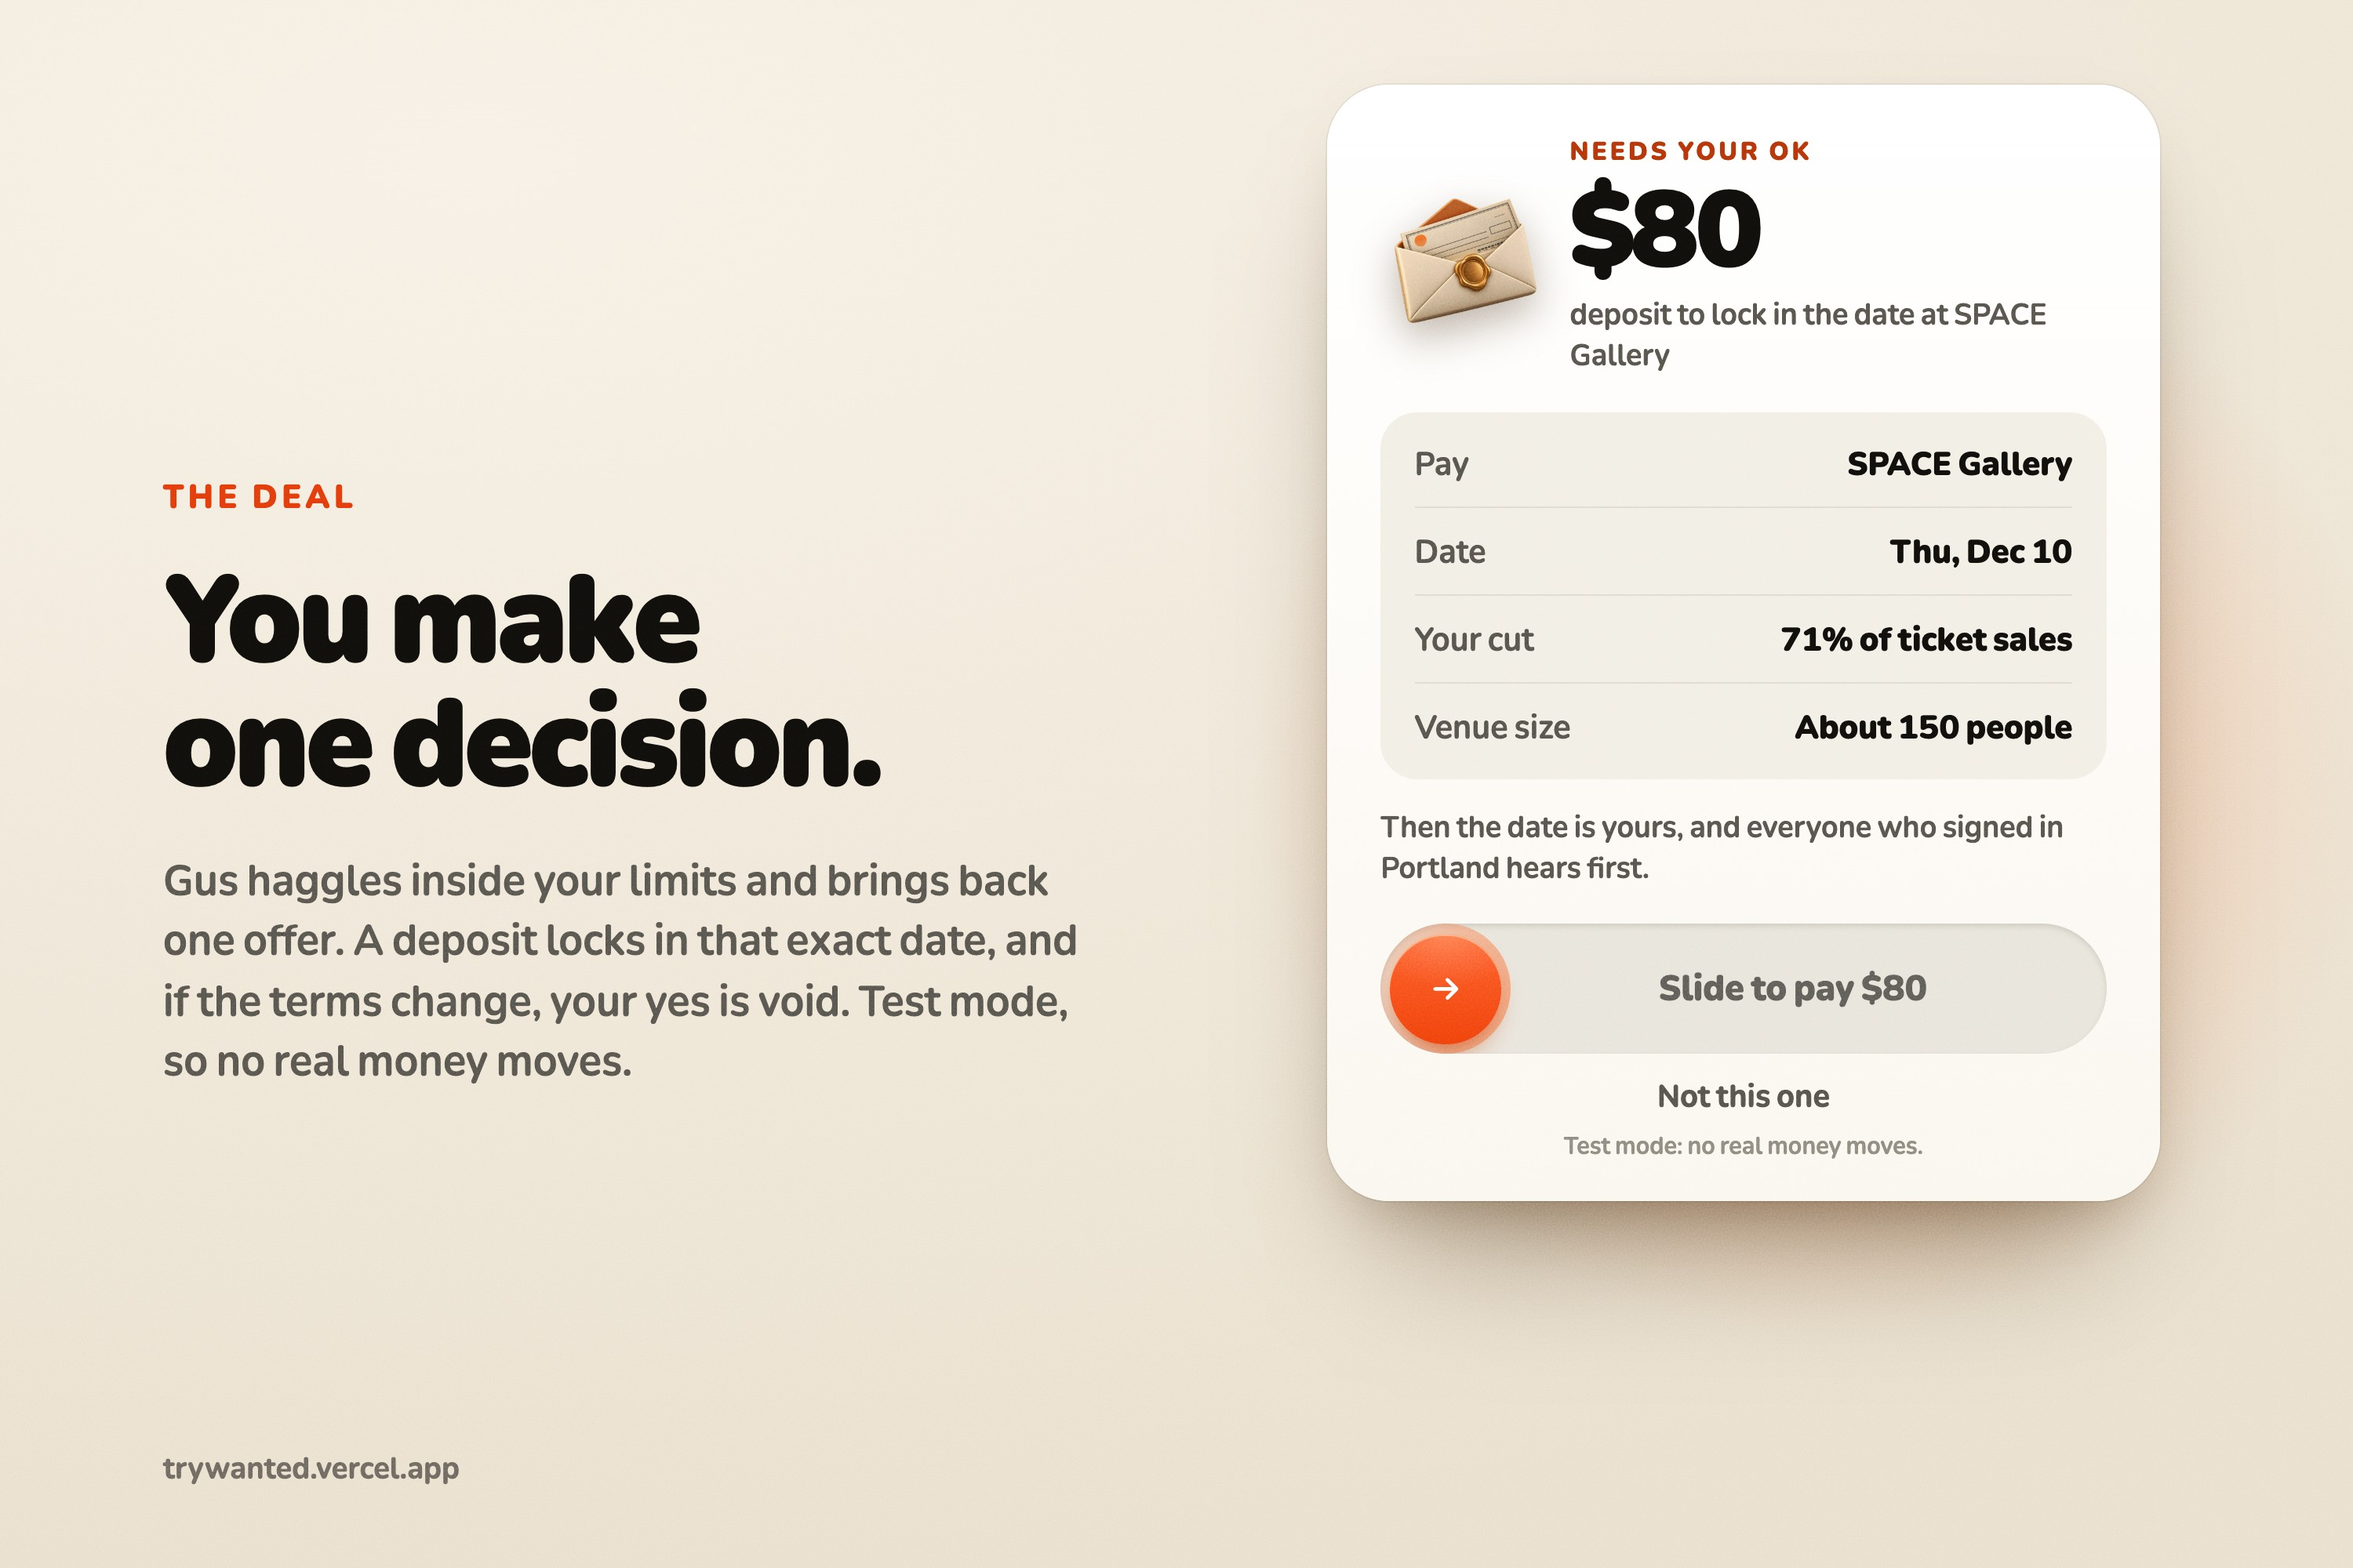
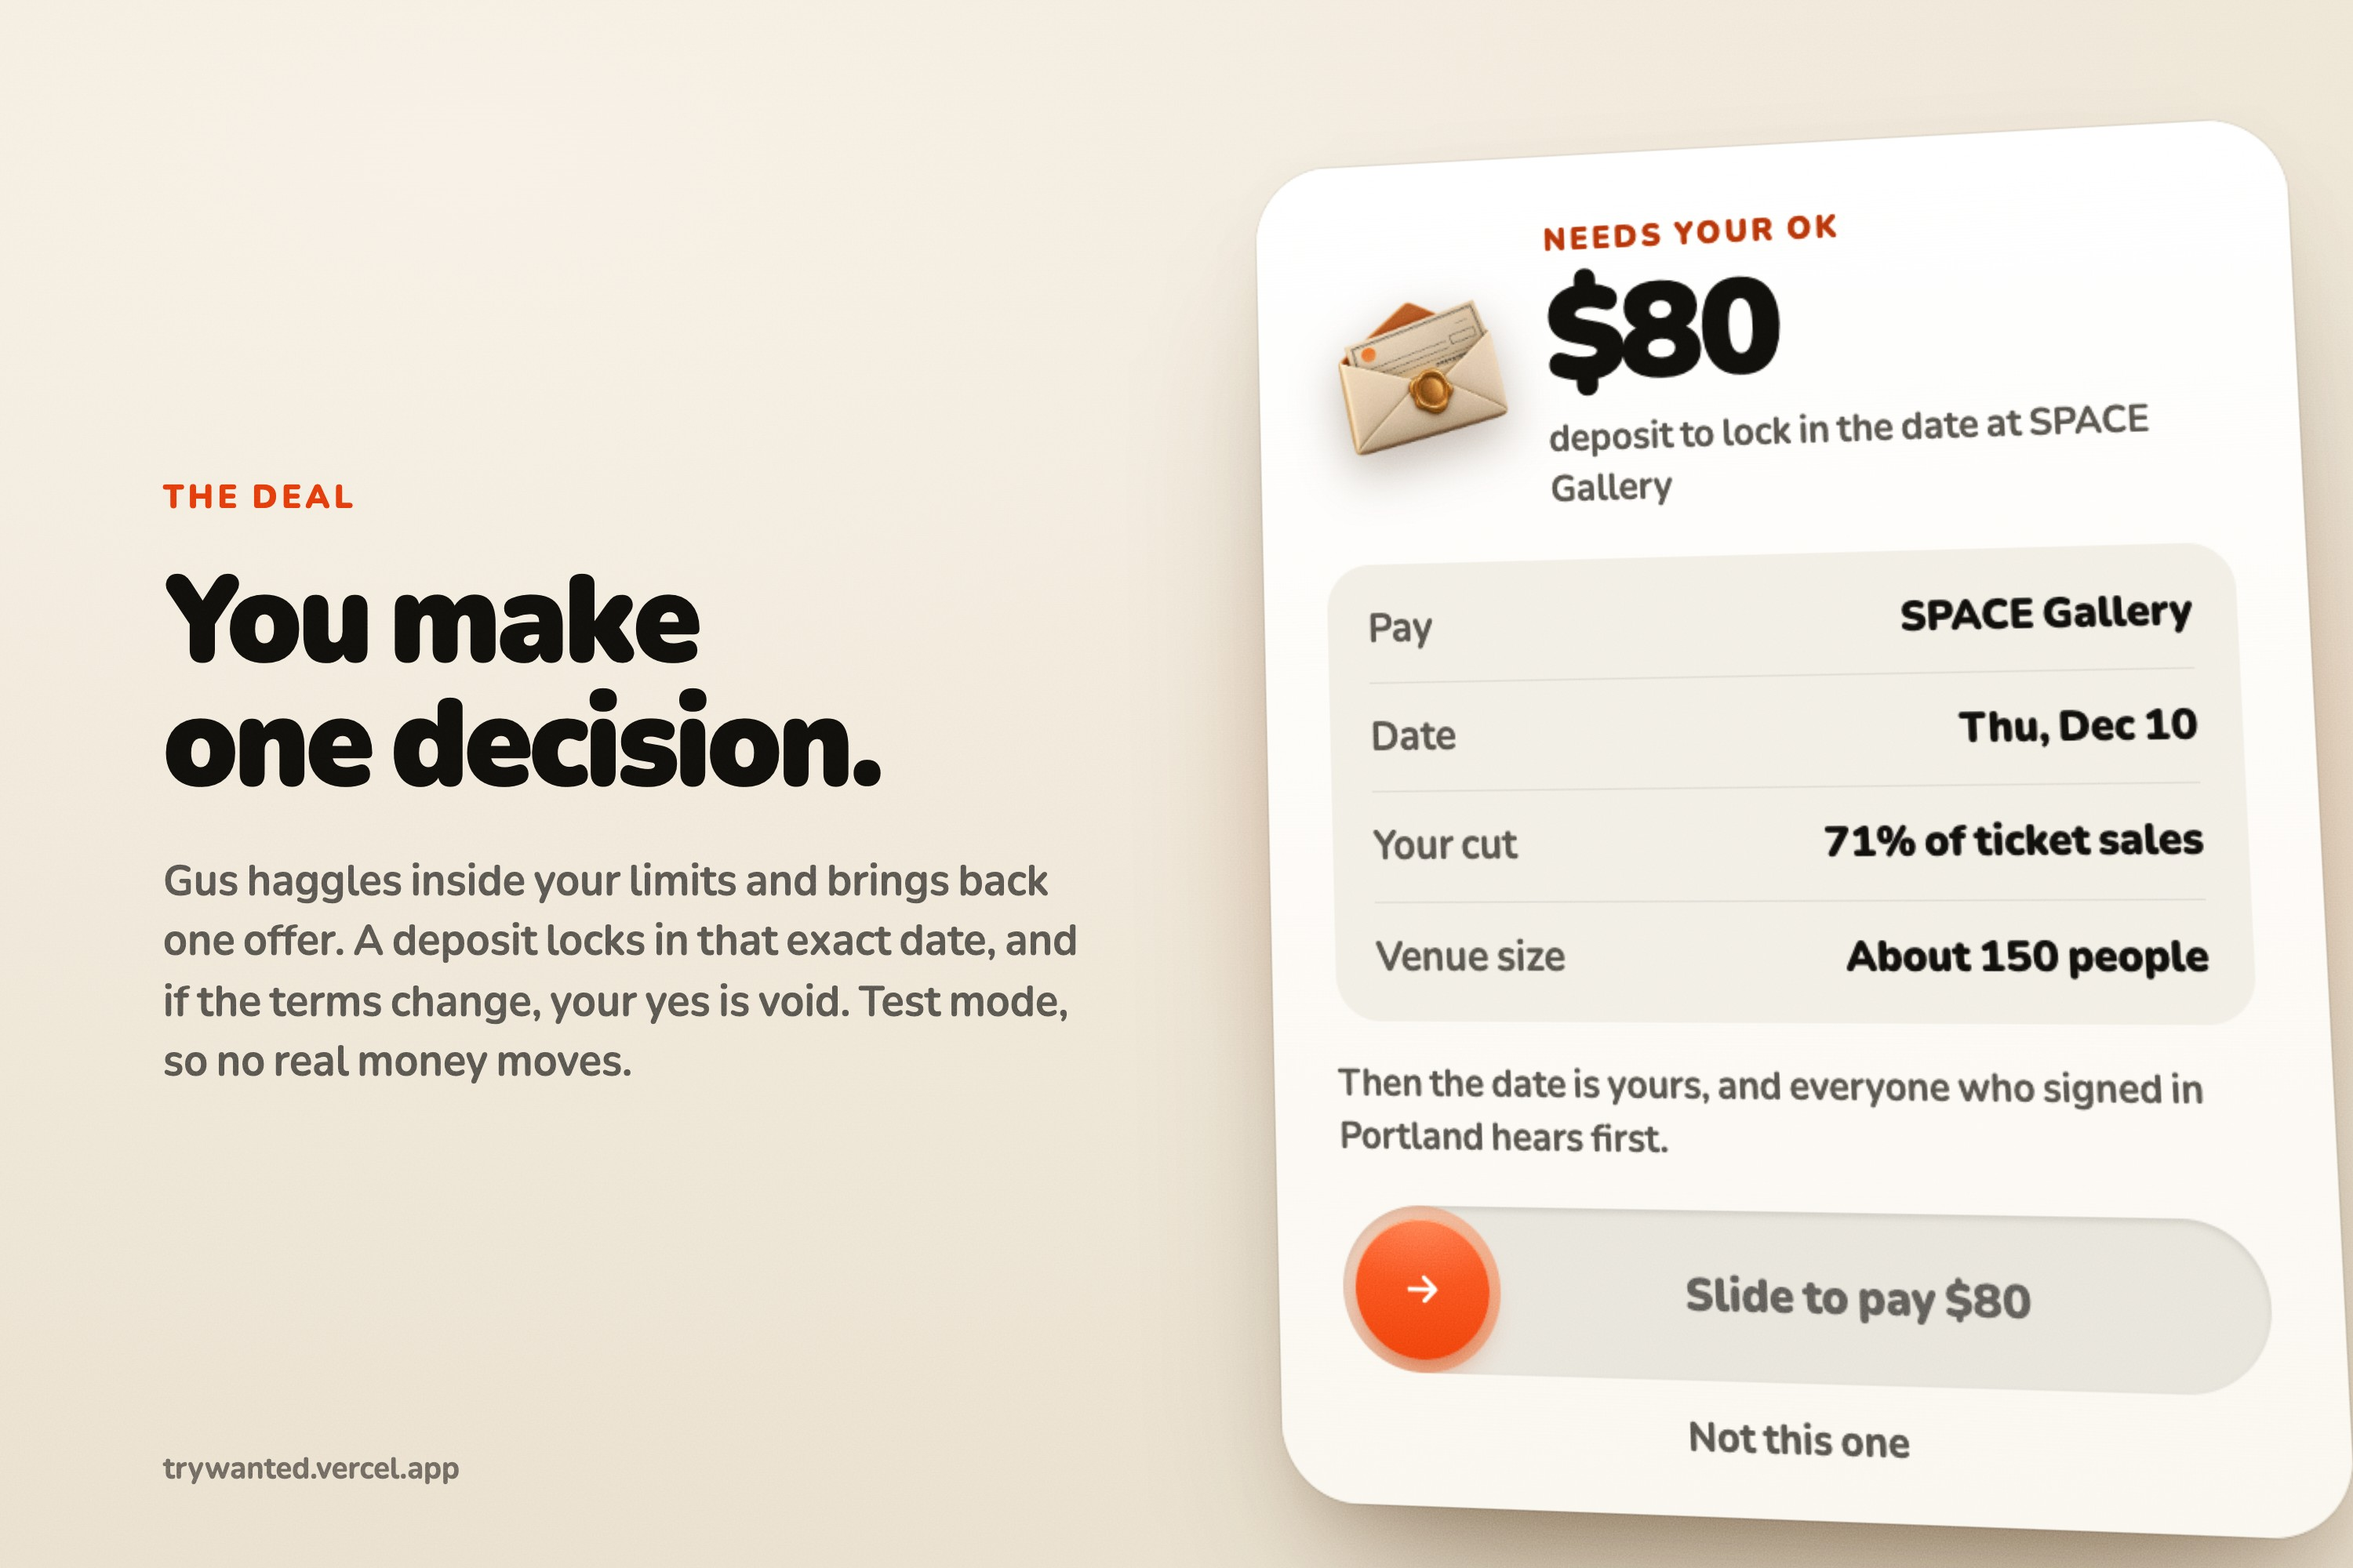
Gallery layouts vary like App Store sets: phones bleed off the edge and tilt in 3D, some headlines run across the top, the island floats over a blurred home screen, and the cover puts Gus in front of the app

Changed region(s): [[0.527, 0.031, 1.0, 1.0]]

diff --git a/docs/DEVPOST.md b/docs/DEVPOST.md
@@ -81,4 +81,4 @@ qloo, typescript, next.js, react, expo, openrouter, libsql, turso, maplibre, dec
 
 ## Image gallery
 
-Upload [docs/gallery](gallery) in order: `0-cover.jpg` as the thumbnail (Gus himself, on Wanted orange), then cards 1 to 12. They're 3:2 and move between orange, cream and dark. Each screen appears once. Cards 2, 3, 5, 7 and 11 are real iPhone Safari screenshots of trywanted.vercel.app from the iOS Simulator; card 11 is the Claude iPhone app (`claude.png`, taken by hand). Cards 1, 4 and 6 draw the surfaces Gus talks through in code from the app's own styles and the demo's real numbers: the Dynamic Island, an offer waiting on your OK, and Tap to talk. Cards 8 to 10 explain how Gus works, why taste data matters and the loop that pays the band, and card 12 has a QR code for the live demo. `node scripts/gallery-refresh.mjs` retakes the screenshots and rebuilds every card; `ONLY=4 node scripts/gallery-cards.mjs .data/gallery docs/gallery` rebuilds one card.
+Upload [docs/gallery](gallery) in order: `0-cover.jpg` as the thumbnail (Gus standing in front of the app, on Wanted orange), then cards 1 to 12. They're 3:2 and move between orange, cream and dark. Each screen appears once. Cards 2, 3, 5, 7 and 11 are real iPhone Safari screenshots of trywanted.vercel.app from the iOS Simulator; card 11 is the Claude iPhone app (`claude.png`, taken by hand). Cards 1, 4 and 6 draw the surfaces Gus talks through in code from the app's own styles and the demo's real numbers: the Dynamic Island, an offer waiting on your OK, and Tap to talk. Cards 8 to 10 explain how Gus works, why taste data matters and the loop that pays the band, and card 12 has a QR code for the live demo. `node scripts/gallery-refresh.mjs` retakes the screenshots and rebuilds every card; `ONLY=4 node scripts/gallery-cards.mjs .data/gallery docs/gallery` rebuilds one card.
